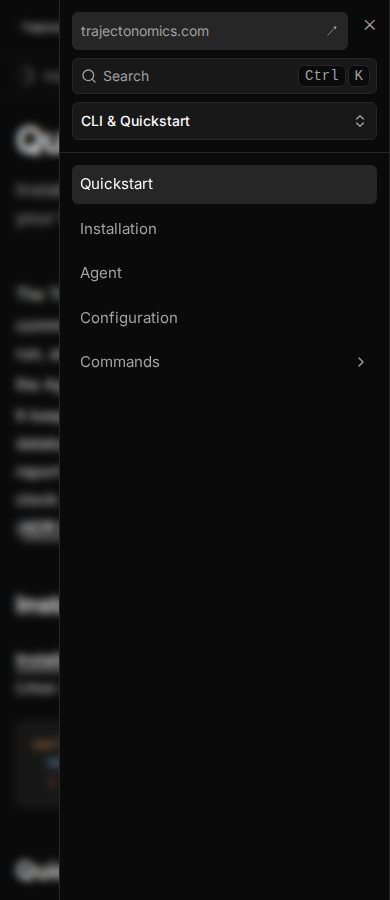
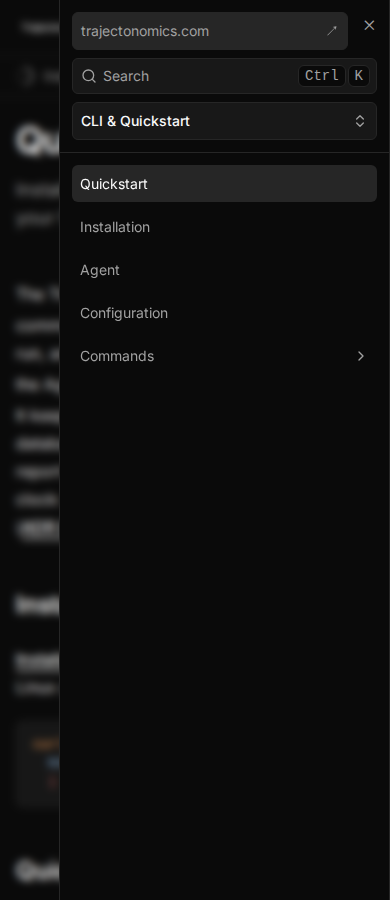
fix: read the drawer's tree at the desktop sidebar's size
Conformance Review: Spec T3 asks for 14px text and story 9 for the navigation to
read the same in the drawer, but Fumadocs sets the drawer to 0.9375rem while the
desktop aside takes text-sm. The seam — the one stylesheet that owns a scale —
sets the drawer's tree to the design system's small size, and the browser test
reads the rendered size in the drawer.

Changed region(s): [[0.2154, 0.1867, 0.4, 0.3111], [0.2154, 0.3422, 0.4615, 0.4044]]

diff --git a/e2e/shell.e2e.ts b/e2e/shell.e2e.ts
@@ -213,6 +213,13 @@ test("the phone drawer opens with the site button, the search and the Tab dropdo
 	await expect(block.getByRole("button", { name: /Tab|Quickstart|Build/ }).first()).toBeVisible()
 
 	expect(await siteComesFirst(block), "the drawer keeps the block's order").toBe(true)
+
+	// The same navigation at the same size as the desktop sidebar's, so a phone reads it the same.
+	const treeSize = await page
+		.locator("#nd-sidebar-mobile a[data-active]")
+		.first()
+		.evaluate((row) => getComputedStyle(row).fontSize)
+	expect(treeSize, "the drawer's tree reads at the desktop sidebar's size").toBe("14px")
 })
 
 test("the portal renders one Theme for every reader", async ({ page }) => {

diff --git a/src/styles/theme-seam.test.ts b/src/styles/theme-seam.test.ts
@@ -126,6 +126,13 @@ describe("theme seam", () => {
 		expect(declarationsOf(css, ":root")).toMatch(/--fd-layout-width:\s*1400px;/)
 	})
 
+	test("the drawer's tree takes the desktop sidebar's text size", async () => {
+		const css = await Bun.file(SEAM_PATH).text()
+		expect(declarationValue(declarationsOf(css, "#nd-notebook-layout #nd-sidebar-mobile"), "font-size")).toBe(
+			"var(--ds-font-size-sm)",
+		)
+	})
+
 	test("the seam declares the reading measure once, on :root", async () => {
 		const css = await Bun.file(SEAM_PATH).text()
 		expect(css.match(/--fd-reading-measure\s*:/g) ?? []).toHaveLength(1)

diff --git a/src/styles/theme-seam.css b/src/styles/theme-seam.css
@@ -109,6 +109,14 @@
 	color: var(--ds-color-accent-foreground);
 }
 
+/*
+ * The drawer's tree reads at the desktop sidebar's size: Fumadocs sets the drawer to 0.9375rem, so
+ * the same navigation would change size when a phone opens it (docs#91).
+ */
+#nd-notebook-layout #nd-sidebar-mobile {
+	font-size: var(--ds-font-size-sm);
+}
+
 /* Twenty's rhythm marks the row the reader is on with the secondary ground, not an accent tint. */
 #nd-notebook-layout :is(#nd-sidebar, #nd-sidebar-mobile) a[data-active="true"],
 #nd-notebook-layout :is(#nd-sidebar, #nd-sidebar-mobile) a[data-active="true"]:hover {
